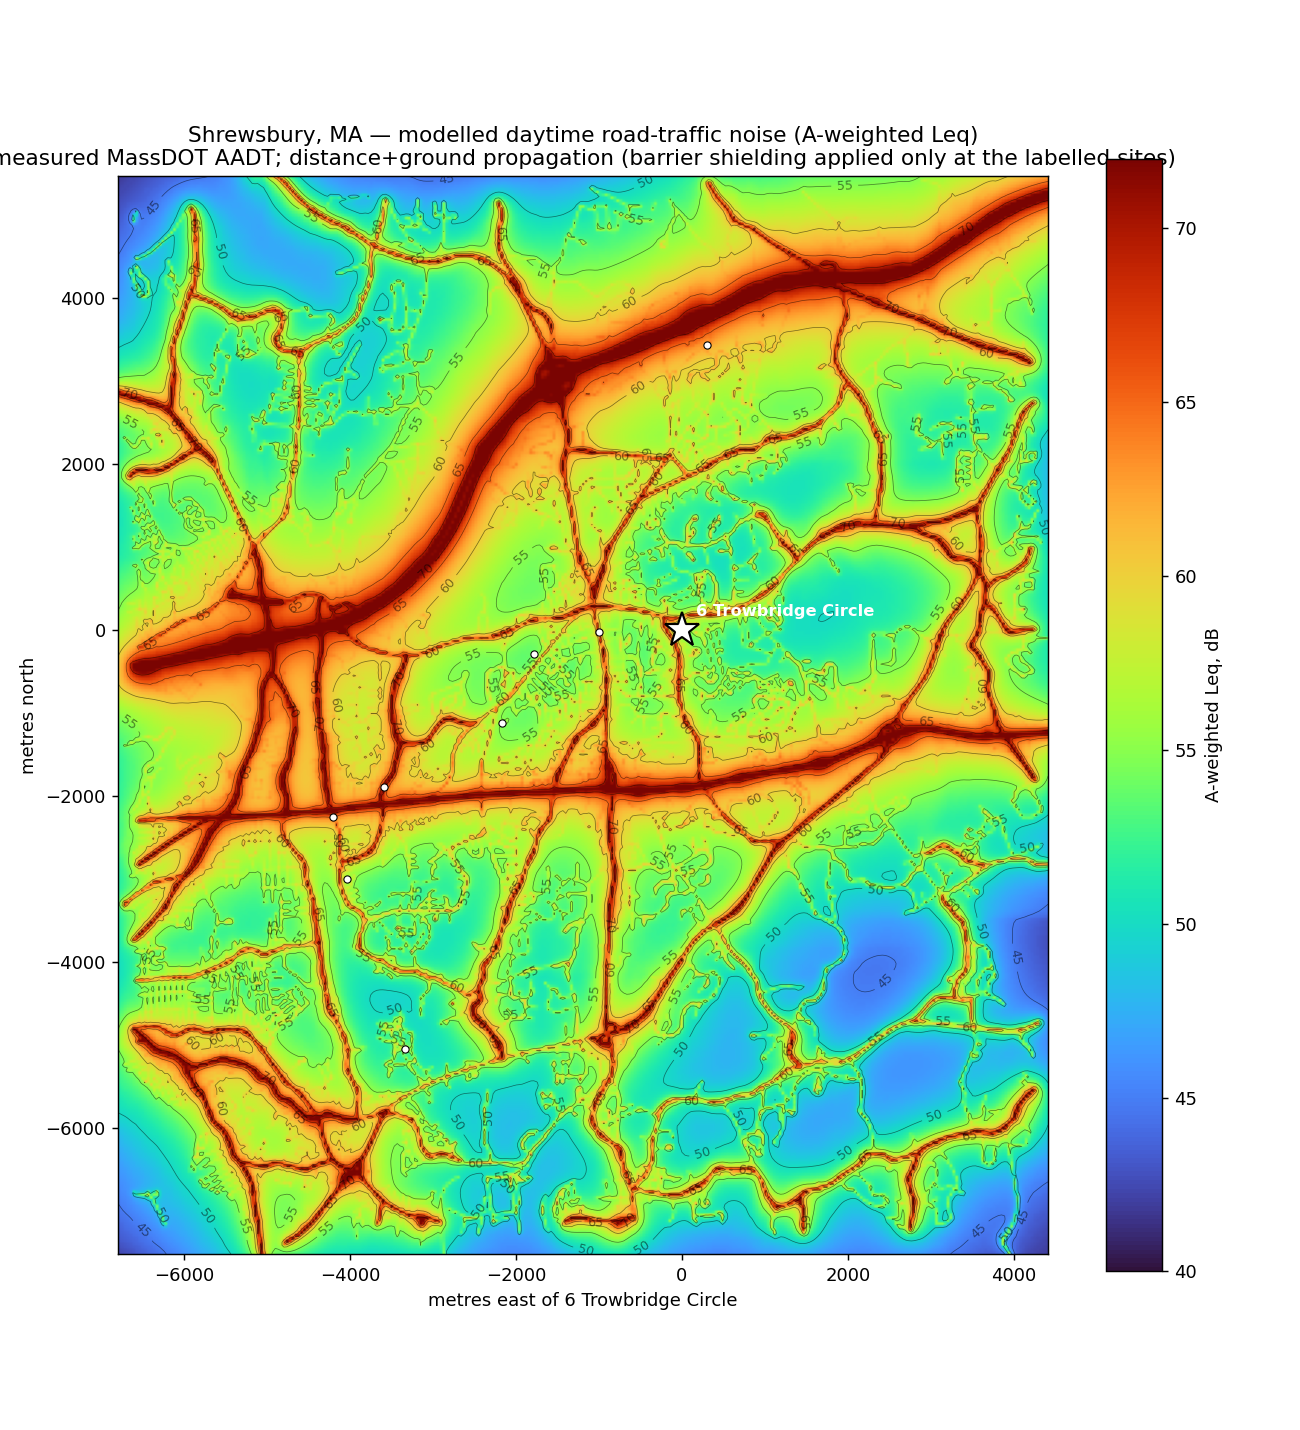
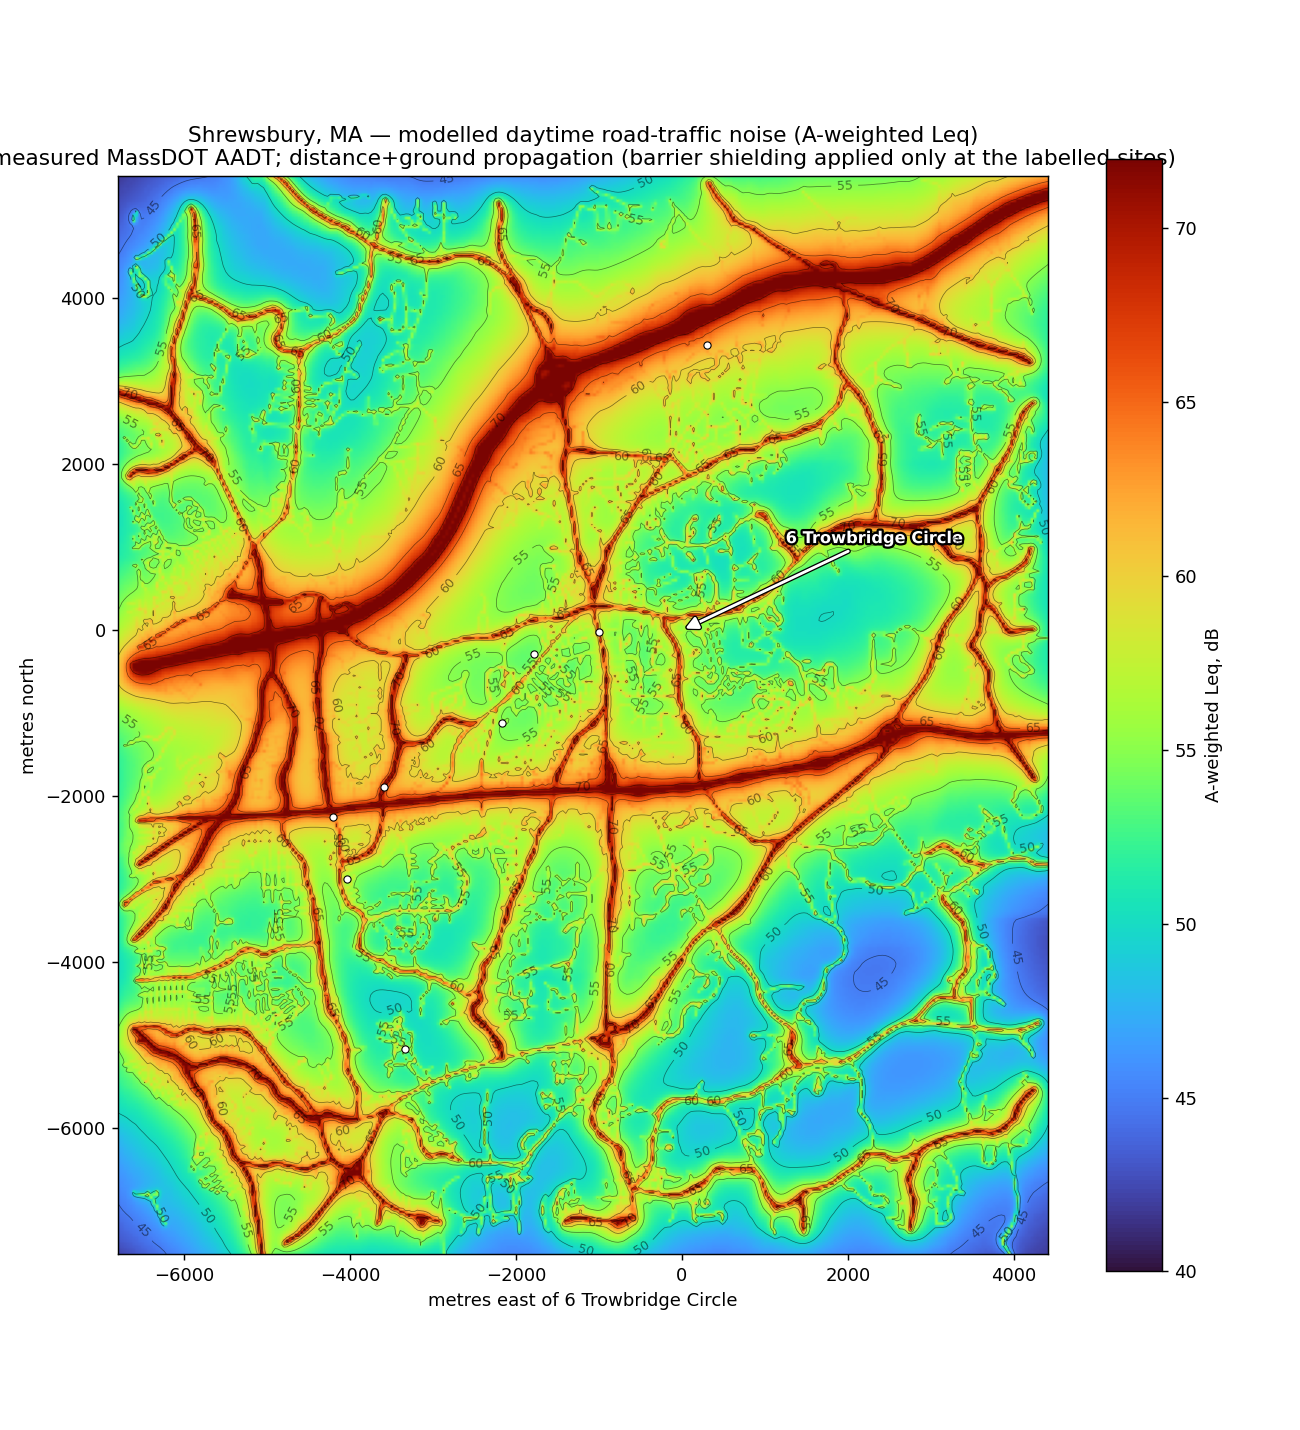
Mark 6 Trowbridge Circle with a thin arrow so its noise color shows
Replaces the large star marker (which hid the cell value) with an
offset label and arrow on the noise map.

https://claude.ai/code/session_01BczkHx3ESrGXJazB7e6rqE

diff --git a/analysis/shrewsbury_sound/sound_model.py b/analysis/shrewsbury_sound/sound_model.py
@@ -271,6 +271,7 @@ def run_map(step=35.0, radius=2200.0):
     import matplotlib
     matplotlib.use("Agg")
     import matplotlib.pyplot as plt
+    import matplotlib.patheffects as pe
     xs = np.arange(X0+160, X0+(NX-20)*RES, step)
     ys = np.arange(Y0+160, Y0+(NY-20)*RES, step)
     W, H = len(xs), len(ys)
@@ -301,9 +302,12 @@ def run_map(step=35.0, radius=2200.0):
     for label, lat, lon in RECEIVERS:
         x,y = ll_to_m(lat,lon)
         if label.startswith("6 Trowbridge"):
-            ax.plot(x,y,"*",color="white",ms=20,mec="k",mew=1.2)
-            ax.annotate("6 Trowbridge Circle", (x,y), color="white",
-                        fontsize=9, weight="bold", xytext=(8,8), textcoords="offset points")
+            ax.annotate("6 Trowbridge Circle", xy=(x,y), xytext=(x+1250, y+1050),
+                        color="white", fontsize=9, weight="bold",
+                        path_effects=[pe.withStroke(linewidth=2.5, foreground="k")],
+                        arrowprops=dict(arrowstyle="-|>", color="white", lw=1.6,
+                                        mutation_scale=14,
+                                        path_effects=[pe.withStroke(linewidth=3, foreground="k")]))
         else:
             ax.plot(x,y,"o",color="white",ms=4,mec="k",mew=0.6)
     fig.colorbar(im, ax=ax, label="A-weighted Leq, dB", shrink=0.8)
